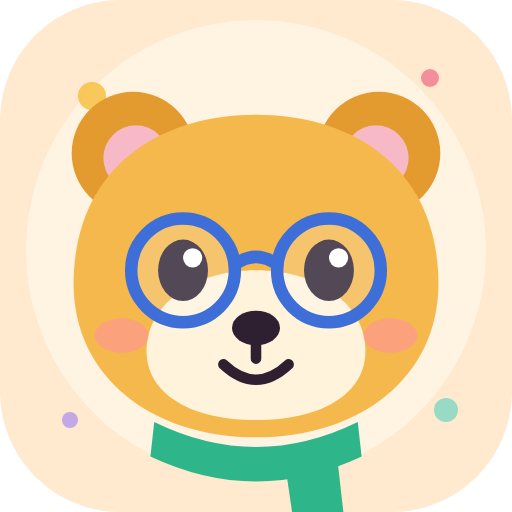
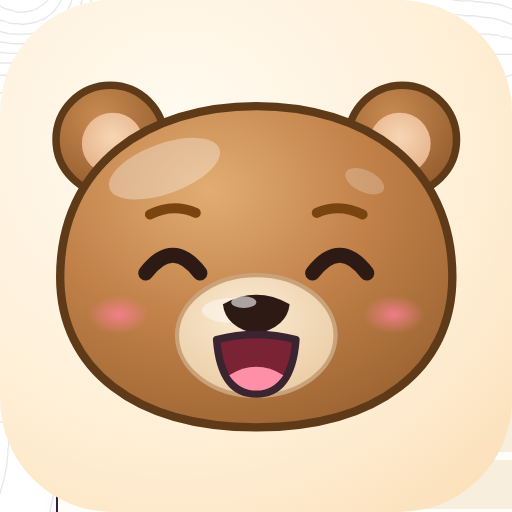
Nová ikonka: smejúci sa Bystrík na krémovom pozadí
Claude-Session: https://claude.ai/code/session_018aZDifdH5dujFLQvfnRAAp

diff --git a/sw.js b/sw.js
@@ -1,4 +1,4 @@
-const CACHE = 'bystrik-v27';
+const CACHE = 'bystrik-v28';
 const FILES = ['./', './index.html', './manifest.webmanifest', './icon-192.png', './icon-512.png', './icon-maskable-512.png'];
 self.addEventListener('install', e => { e.waitUntil(caches.open(CACHE).then(c => c.addAll(FILES))); self.skipWaiting(); });
 self.addEventListener('activate', e => { e.waitUntil(caches.keys().then(k => Promise.all(k.filter(x => x !== CACHE).map(x => caches.delete(x))))); self.clients.claim(); });
